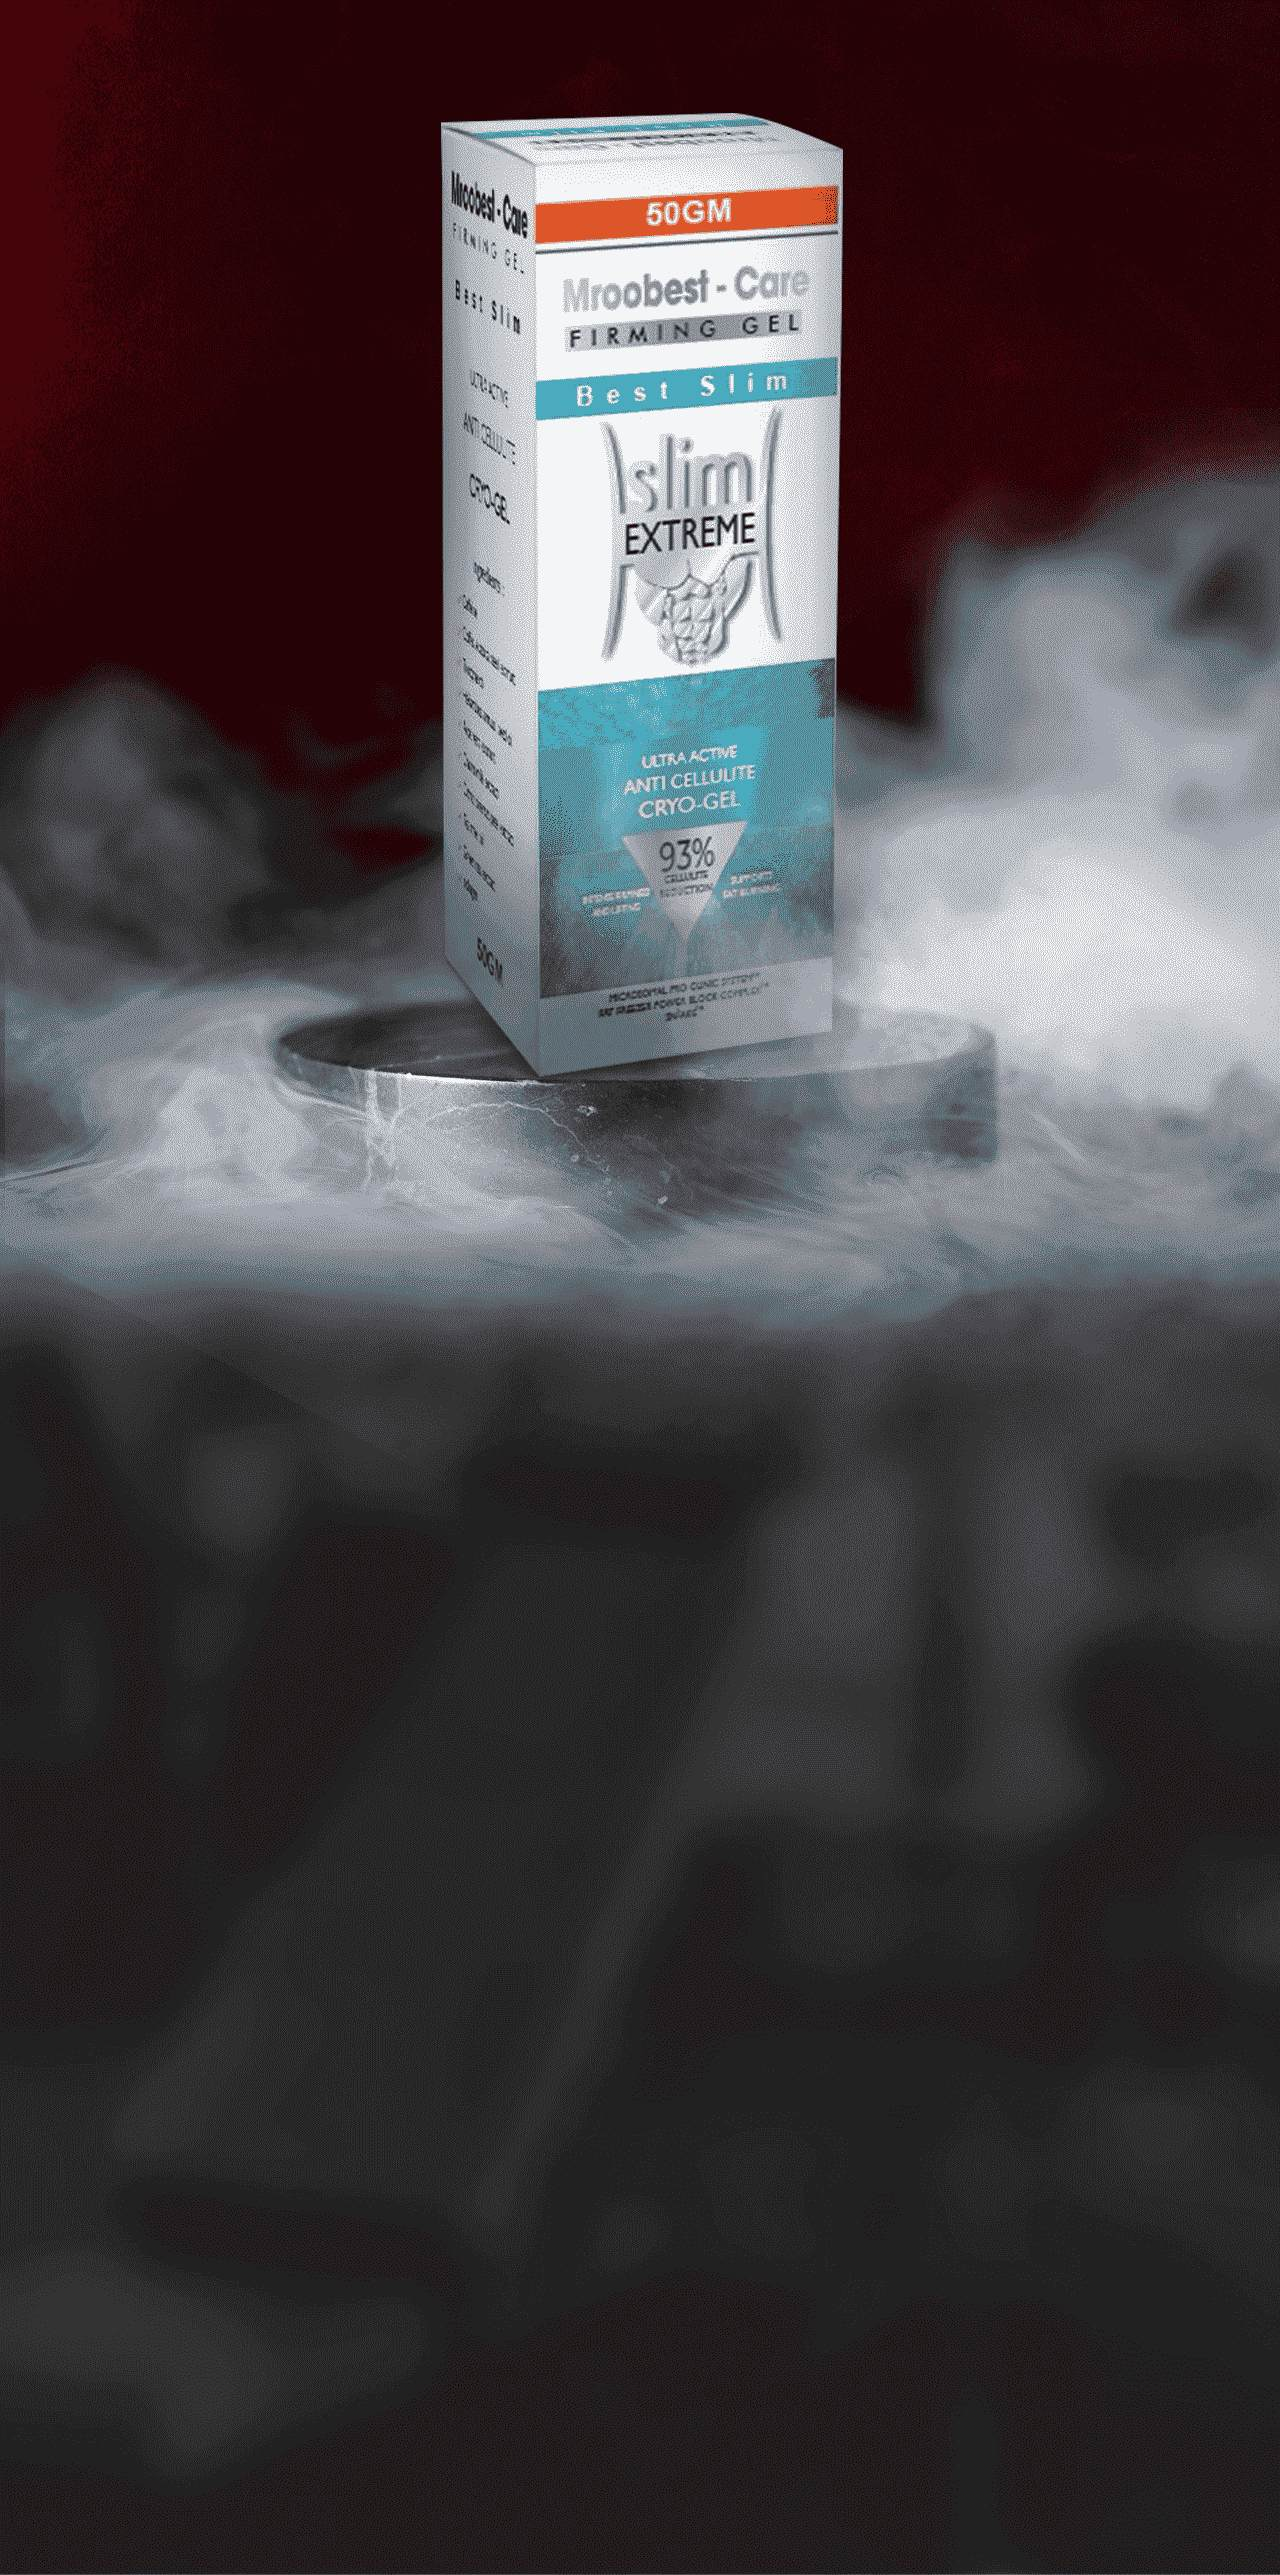
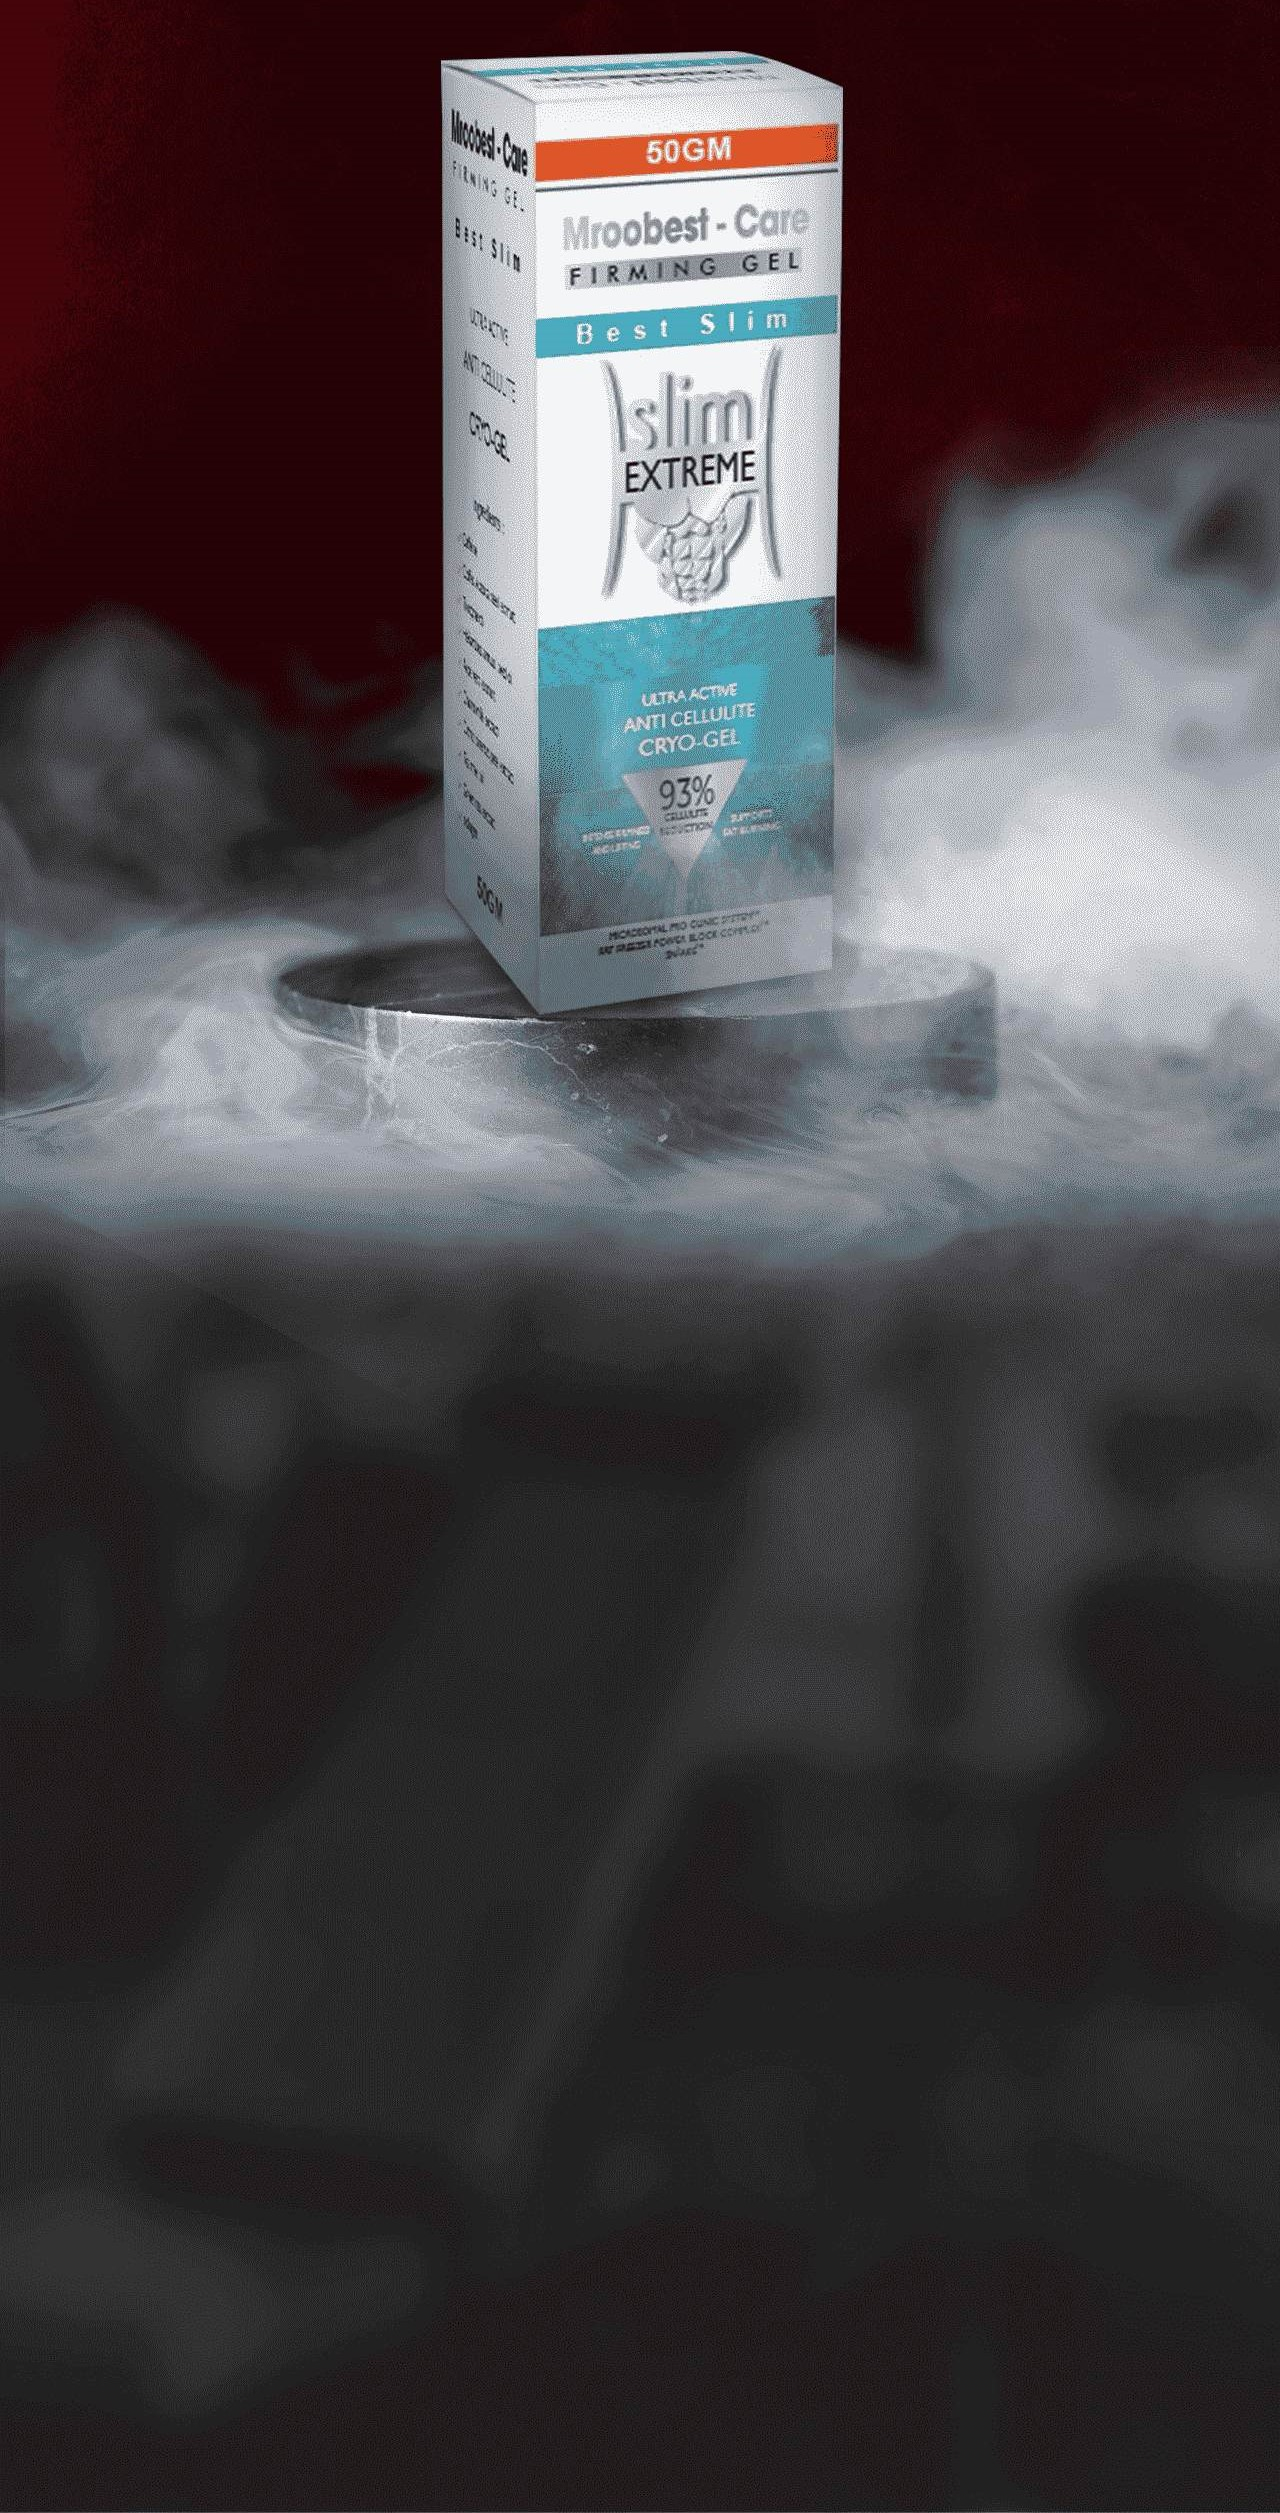
Add files via upload

Changed region(s): [[0.0, 0.0, 1.0, 0.5277]]

diff --git a/style.css b/style.css
@@ -93,7 +93,7 @@
   /* Start Home Section */
   .home{
     background: url(img/homesec.jpg);
-    height: 92vh;
+    height: 90vh;
     width: 100%;
     background-position: top;
     background-size: cover;
